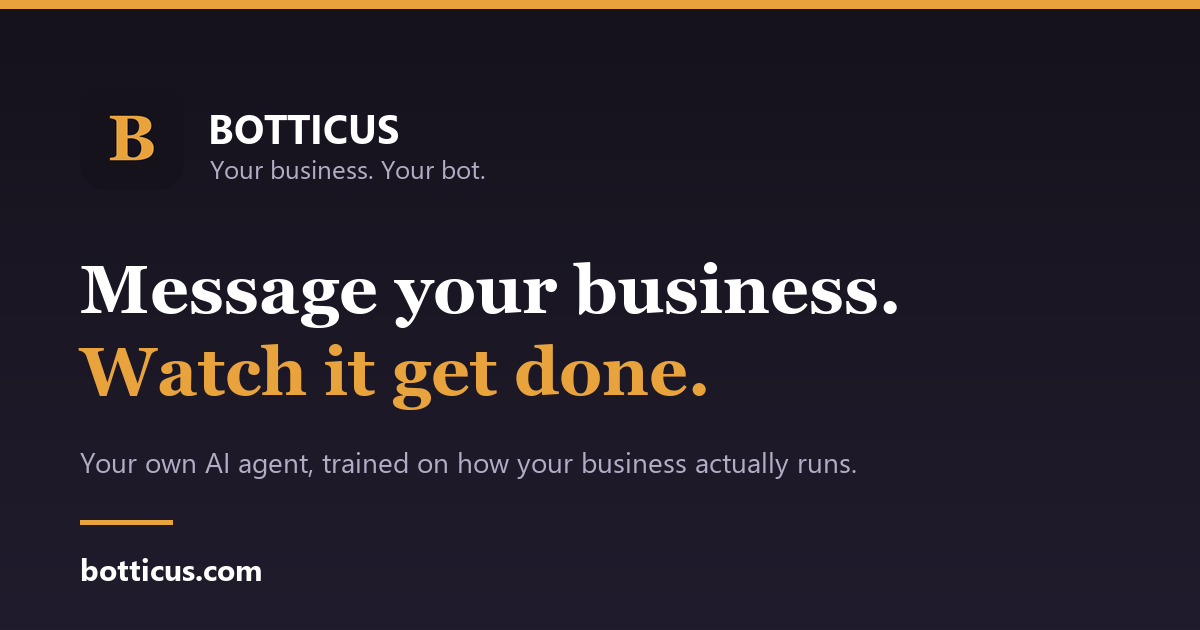
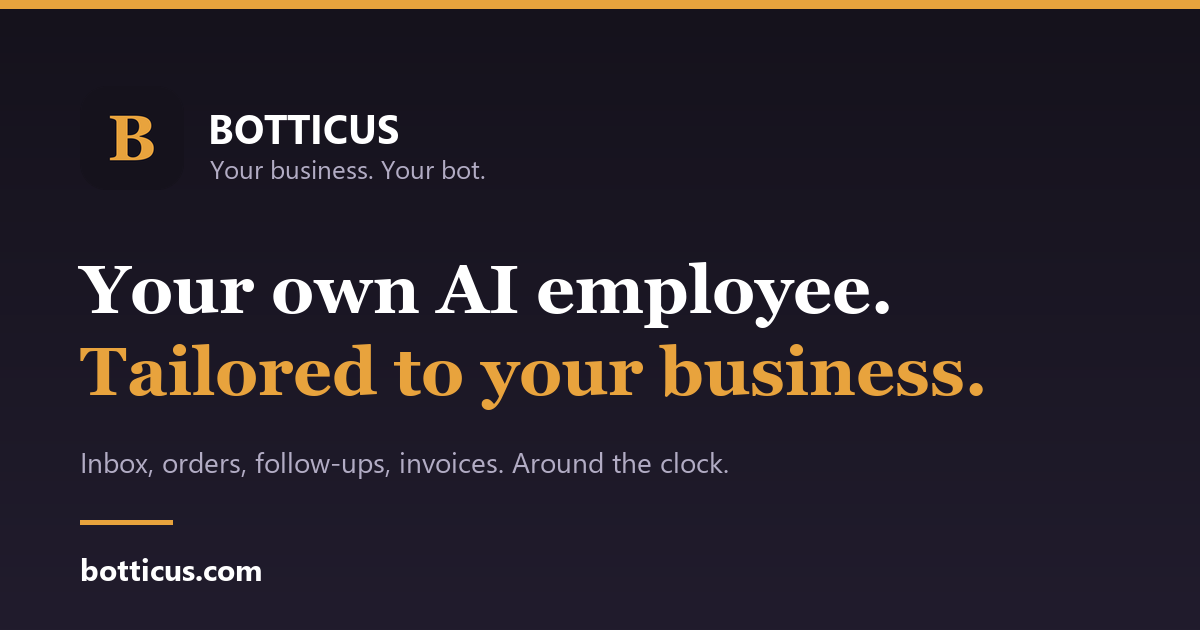
Reword the share card: "Your own AI employee. Tailored to your business."
Nathan did not like the previous wording, which reused the hero line. The card
now leads with what Botticus is rather than an instruction, and carries
"Tailored" per his direction, which also matches the language already in the
meta description and JSON-LD.

  Your own AI employee.
  Tailored to your business.
  Inbox, orders, follow-ups, invoices. Around the clock.

og:image:alt updated to match, so the described version and the rendered one do
not drift apart. Layout, colours and mark unchanged.

Changed region(s): [[0.0617, 0.4222, 0.7708, 0.5429], [0.0617, 0.5429, 0.8325, 0.6635], [0.0617, 0.7238, 0.7092, 0.754]]

diff --git a/index.html b/index.html
@@ -20,7 +20,7 @@
   <meta property="og:image" content="https://botticus.com/img/og-card.png">
   <meta property="og:image:width" content="1200">
   <meta property="og:image:height" content="630">
-  <meta property="og:image:alt" content="Botticus. Message your business. Watch it get done.">
+  <meta property="og:image:alt" content="Botticus. Your own AI employee, tailored to your business.">
   <meta property="og:site_name" content="Botticus">
   <meta name="twitter:card" content="summary_large_image">
   <meta name="twitter:title" content="Botticus | Your own AI chief of staff">

diff --git a/tools/make_botticus_images.py b/tools/make_botticus_images.py
@@ -66,11 +66,11 @@ def og_card():
     d.text((210, 150), "Your business. Your bot.", font=font("segoeui.ttf", 26), fill=MUTED)
 
     headline = font("georgiab.ttf", 68)
-    d.text((80, 250), "Message your business.", font=headline, fill=WHITE)
-    d.text((80, 332), "Watch it get done.", font=headline, fill=GOLD)
+    d.text((80, 250), "Your own AI employee.", font=headline, fill=WHITE)
+    d.text((80, 332), "Tailored to your business.", font=headline, fill=GOLD)
 
     sub = font("segoeui.ttf", 28)
-    d.text((80, 442), "Your own AI agent, trained on how your business actually runs.", font=sub, fill=MUTED)
+    d.text((80, 442), "Inbox, orders, follow-ups, invoices. Around the clock.", font=sub, fill=MUTED)
 
     d.rectangle([80, 520, 80 + 92, 524], fill=GOLD)
     d.text((80, 548), "botticus.com", font=font("segoeuib.ttf", 30), fill=WHITE)
